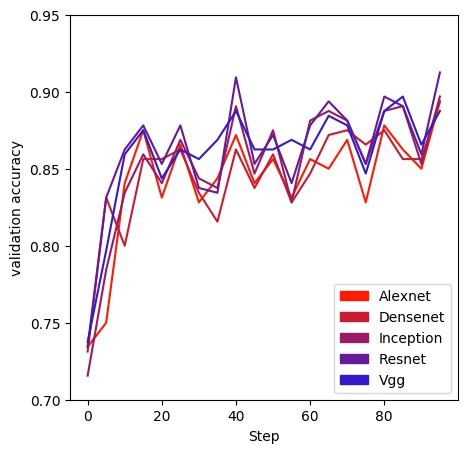
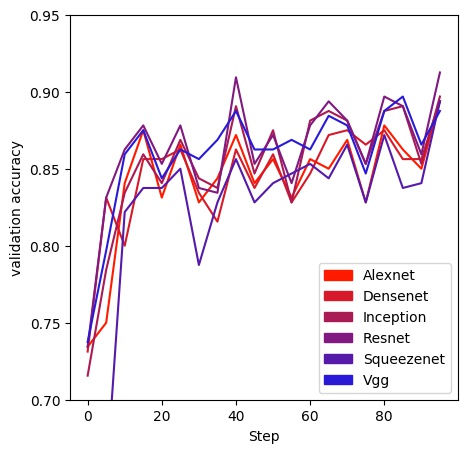
update:

diff --git a/docs/2019-02-22_notes_on_experiments.md b/docs/2019-02-22_notes_on_experiments.md
@@ -49,31 +49,55 @@ To reproduce these results please use the `parse_network_details.ipynb` script.
 
 _NA: Compare realistic architectures_
 
-| network | alex                 | squeeze              | tiny                 |
-|---------|----------------------|----------------------|----------------------|
-| LR      | 0.1,0.01,0.001,0.0001| 0.1,0.01,0.001,0.0001| 0.1,0.01,0.001,0.0001|
-| BS      | 32                   | 32                   | 32                   |
-| init    | scratch              | scratch              | scratch              |
-| optim   | SGD                  | SGD                  | SGD                  |
-| seed    | 123                  | 123                  | 123                  |
-| dataset | 100K, 50K, 20K, 10K  | 100K, 50K, 20K, 10K  | 100K, 50K, 20K, 10K  |
+| network | alex                 | tiny                 |
+|---------|----------------------|----------------------|
+| LR      | 0.1,0.01,0.001,0.0001| 0.1,0.01,0.001,0.0001|
+| BS      | 32                   | 32                   |
+| init    | scratch              | scratch              |
+| optim   | SGD                  | SGD                  |
+| seed    | 123                  | 123                  |
+| dataset | 100K, 50K, 20K, 10K  | 100K, 50K, 20K, 10K  |
 
 Justify step to scratch as hand crafted models do not have a imagenet pretrained checkpoint available.
 The three models above are competing in performance on gradual smaller datasets.
 Ideally a smaller model is less prune to overfitting and allows faster learning.
 Handcraft different versions of tiny net according to pruning with importance weights.
 
+```bash
+for DS in 100K 50K 20K 10K 5K 1K ; do 
+  for LR in 1 01 001 ; do
+    name="tiny_net/esatv3_expert_$DS/$LR"
+    pytorch_args="--network tiny_net --checkpoint_path tiny_net_scratch --dataset esatv3_expert_$DS --discrete --turn_speed 0.8 --speed 0.8\
+  --tensorboard --max_episodes 10000 --batch_size 32 --learning_rate 0.$LR --loss CrossEntropy --shifted_input --optimizer SGD"
+    dag_args="--number_of_models 1"
+    condor_args="--wall_time_train $((100*1*60+2*3600)) --rammem 6 --gpumem 900 --copy_dataset"
+    python dag_train.py -t $name $pytorch_args $dag_args $condor_args
+  done
+done
+
+for DS in 100K 50K 20K 10K 5K 1K; do 
+  for LR in 1 01 001 ; do
+    name="alex_net/esatv3_expert_$DS/$LR"
+    pytorch_args="--network alex_net --checkpoint_path alex_net_scratch --dataset esatv3_expert_$DS --discrete --turn_speed 0.8 --speed 0.8\
+  --tensorboard --max_episodes 10000 --batch_size 32 --learning_rate 0.$LR --loss CrossEntropy --shifted_input --optimizer SGD"
+    dag_args="--number_of_models 1"
+    condor_args="--wall_time_train $((100*1*60+2*3600)) --rammem 6 --gpumem 1900 --copy_dataset"
+    python dag_train.py -t $name $pytorch_args $dag_args $condor_args
+  done
+done
+```
+
 
 
 _NA: Compare deep architectures_
-
-| network | vgg16                | alex                 | inception            | res18                | dense                |
-|---------|----------------------|----------------------|----------------------|----------------------|----------------------|
-| LR      | 0.1,0.001,0.00001    | 0.1,0.001,0.00001    | 0.1,0.001,0.00001    | 0.1,0.001,0.00001    | 0.1,0.001,0.00001    |
-| BS      | 32                   | 32                   | 32                   | 32                   | 32                   |
-| init    | imagenet             | imagenet             | imagenet             | imagenet             | imagenet             |
-| optim   | SGD                  | SGD                  | SGD                  | SGD                  | SGD                  |
-| seed    | 123                  | 123                  | 123                  | 123                  | 123                  |
+               
+| network | vgg16                | alex                 | inception            | res18                | dense                | squeeze               |
+|---------|----------------------|----------------------|----------------------|----------------------|----------------------|-----------------------|
+| LR      | 0.1,0.001,0.00001    | 0.1,0.001,0.00001    | 0.1,0.001,0.00001    | 0.1,0.001,0.00001    | 0.1,0.001,0.00001    | 0.1,0.01,0.001,0.00001|
+| BS      | 32                   | 32                   | 32                   | 32                   | 32                   | 32                    |
+| init    | imagenet             | imagenet             | imagenet             | imagenet             | imagenet             | imagenet              |
+| optim   | SGD                  | SGD                  | SGD                  | SGD                  | SGD                  | SGD                   |
+| seed    | 123                  | 123                  | 123                  | 123                  | 123                  | 123                   |
 
 Models are compared in the same setting. 
 If a model fails to learn due to severe overfitting, overfitting is handled by regularization techniques (DO, WD, BN).
@@ -92,7 +116,7 @@ for net in inception_net vgg16_net dense_net ; do
   done
 done
 
-for net in res18_net alex_net ; do
+for net in res18_net alex_net; do
   for LR in 1 01 001 0001 00001 ; do
     name="${net}_pretrained/esatv3_expert_200K/$LR"
     pytorch_args="--network ${net} --pretrained --dataset esatv3_expert_200K --discrete --turn_speed 0.8 --speed 0.8 --clip 1.0\
@@ -105,6 +129,9 @@ done
 
 # After training
 for net in alex vgg16 inception res18 dense ; do python combine_results.py --subsample 5 --tags validation_accuracy --log_folders ${net}_net_pretrained/esatv3_expert_200K --legend_names 0.00001 0.0001 0.001 0.01 0.1; done
+
+# select the winners and combine:
+python combine_results.py --subsample 5 --tags validation_accuracy --log_folders alex_net_pretrained/esatv3_expert_200K/01 dense_net_pretrained/esatv3_expert_200K/001 inception_net_pretrained/esatv3_expert_200K/1 res18_net_pretrained/esatv3_expert_200K/01 squeeze_net_pretrained/esatv3_expert_200K/1 vgg16_net_pretrained/esatv3_expert_200K/1 --legend_names Alexnet Densenet Inception Resnet Squeezenet Vgg
 ```
 <img src="/imgs/19-03-26_pretrained_architectures.jpg" alt="validation accuracy of pretrained archtictures." style="width: 400px;"/>
 
